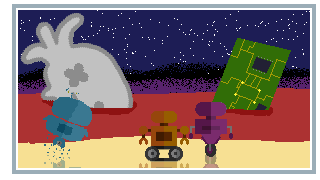
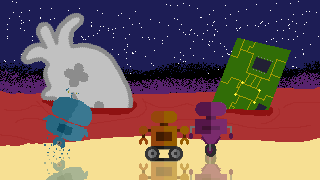
Changed some intro sprites (v2.11.6)

Changed region(s): [[0.0, 0.0, 1.0, 1.0]]

diff --git a/scripts/constants.py b/scripts/constants.py
@@ -4,7 +4,7 @@ class GameVars():
     """Nos permite tener las variables globales juntas en un solo objeto."""
     def __init__(self):
         self.volume_level = 10
-        self.sensitivity_level = 4
+        self.sensitivity_level = 6
 
 game_vars = GameVars()
 

diff --git a/scripts/main.py b/scripts/main.py
@@ -4,7 +4,7 @@ RONDA 2
 
 Crea el juego (mainloop) e inicializa el módulo pygame.
 
-Versión 2.11.5
+Versión 2.11.6
 Estándar de estilo utilizado: PEP8 (https://peps.python.org/pep-0008/)."""
 
 import sys
